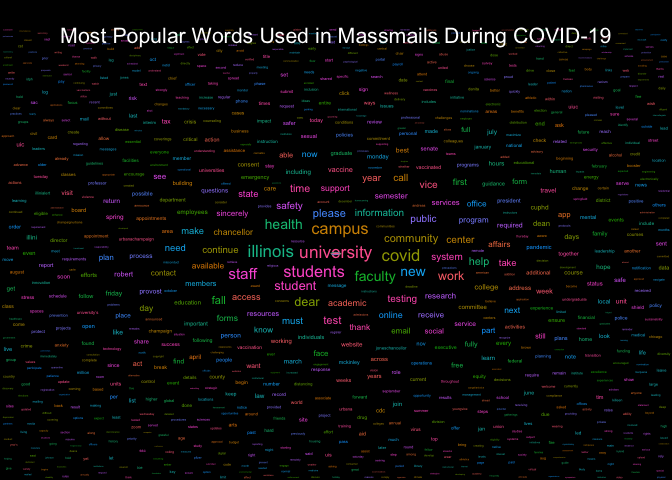
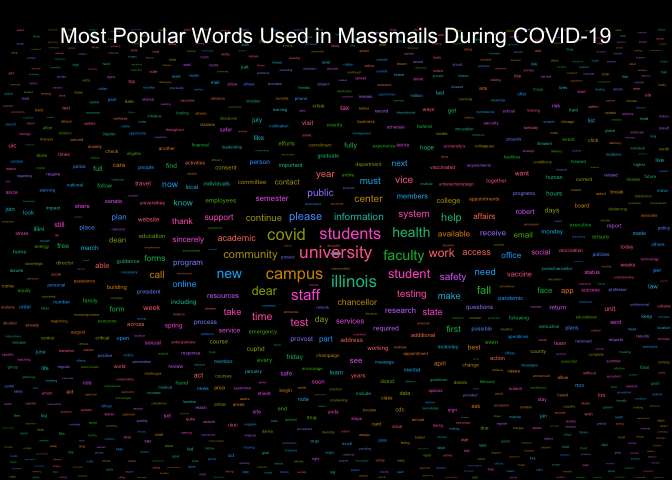
Re-build README.Rmd and Graphs

Changed region(s): [[0.0, 0.0625, 1.0, 1.0]]

diff --git a/README.md b/README.md
@@ -17,7 +17,7 @@ The archive may be viewed here:
 
 <https://massmail.illinois.edu/massmailArchive>
 
-Data has **795** observations and **7** variables:
+Data has **796** observations and **7** variables:
 
 - `datetime`: Date and time when the email was sent in the form of
   `YYYY-MM-DD HMS` with either CDT or CST.
@@ -210,15 +210,15 @@ head(most_popular_words, 10) %>%
 
 | word       | freq |
 |:-----------|-----:|
-| university | 2085 |
-| students   | 1756 |
-| campus     | 1566 |
-| illinois   | 1386 |
+| university | 2087 |
+| students   | 1758 |
+| campus     | 1569 |
+| illinois   | 1387 |
 | covid      | 1070 |
 | faculty    | 1029 |
 | community  |  972 |
-| health     |  967 |
-| student    |  943 |
+| health     |  969 |
+| student    |  955 |
 | staff      |  873 |
 
 #### Wordcloud
